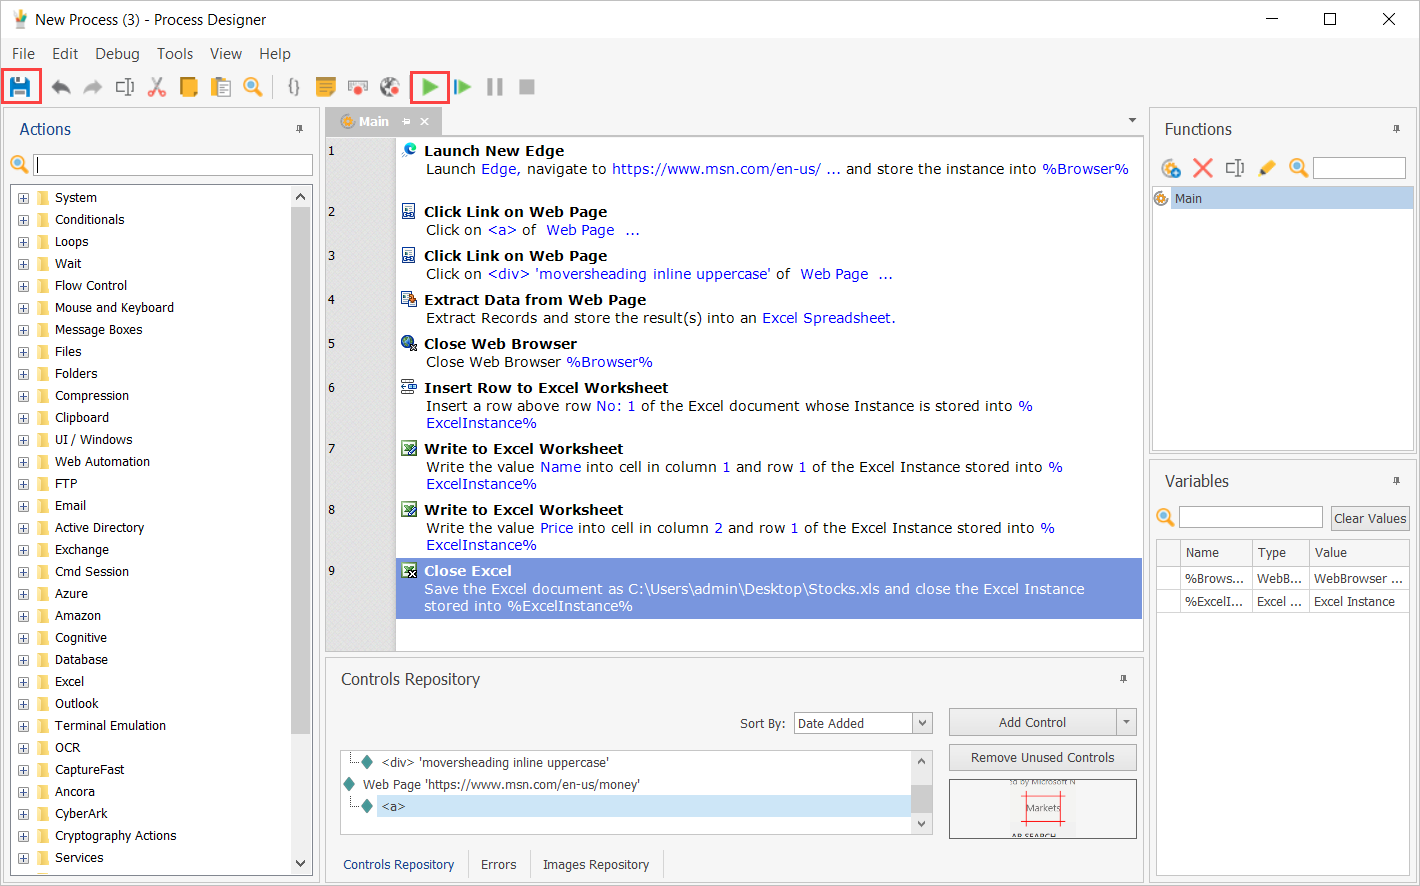
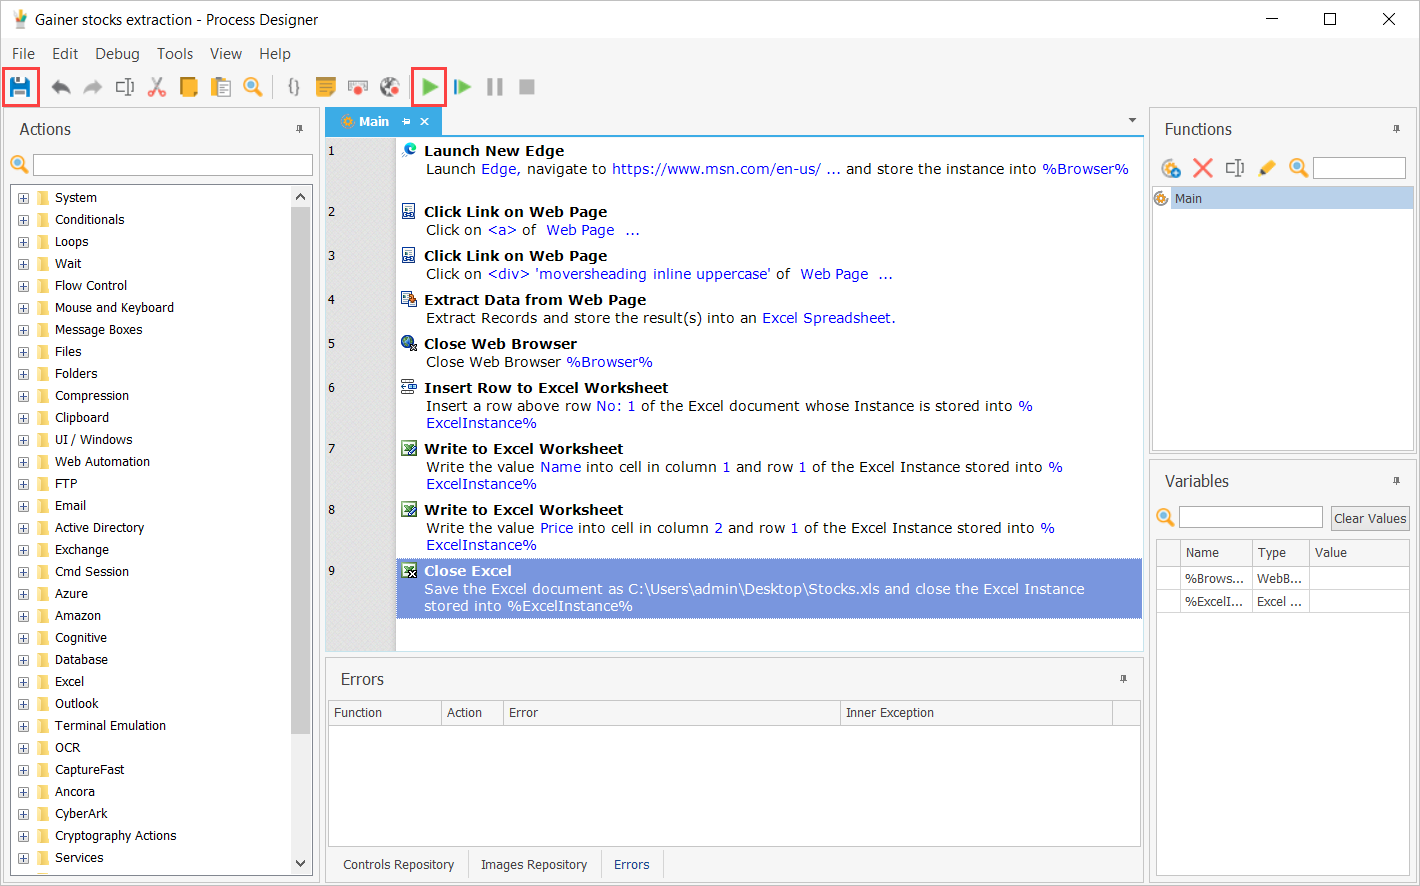
Updated screenshots in the exercise of the "Web automation" module

diff --git a/learn-bizapps-pr/flow/web-automation/includes/6-exercise.md b/learn-bizapps-pr/flow/web-automation/includes/6-exercise.md
@@ -56,7 +56,7 @@ In this unit, you'll create a process that extracts the gainer stocks from the M
 
 1. Add a **Close Excel** action to save and close the Excel worksheet. Because the file is new and you'll save it for the first time, select **Save document as** in the **Before Closing Excel** dropdown list. 
 
-    ![The populated Close Excel action.](..\media\write-to-excel-worksheet-price.png)
+    ![The populated Close Excel action.](..\media\close-excel.png)
 
 1. Lastly, save the process and execute it to ensure that every action runs as expected. 
 
